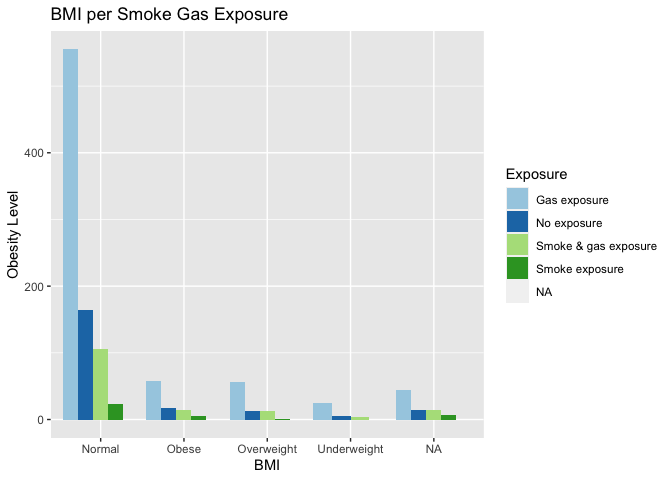
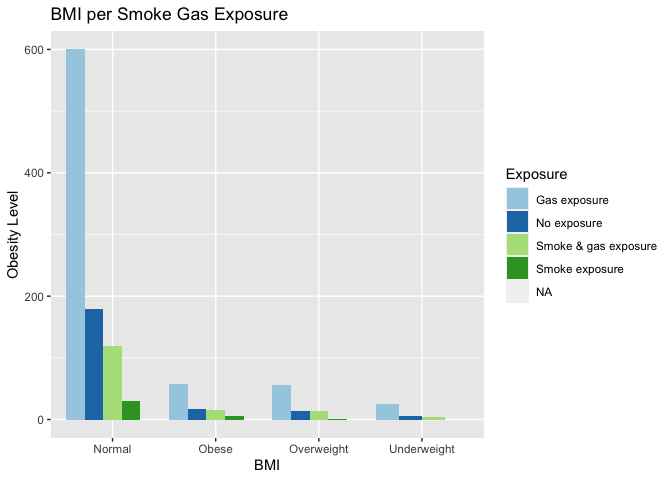
update - fix impute missing data https://github.com/USCbiostats/PM566/issues/60

diff --git a/hw2/pm566-hw2.md b/hw2/pm566-hw2.md
@@ -230,20 +230,21 @@ which(colSums(is.na(chs)) > 0)
     ##            23            43            44
 
 ``` r
-#chs <- data.table(chs)
-#chs[, bmi_imp := fcoalesce(bmi, mean(bmi, na.rm = TRUE)), by = .(male, hispanic)]
-#chs[ , fev_imp := fcoalesce(fev, mean(fev, na.rm = TRUE)), by = .(male, hispanic)]
+chs <- data.table(chs)
+chs[, bmi_imp := fcoalesce(bmi, mean(bmi, na.rm = TRUE)), by = .(male, hispanic)]
+chs[ , fev_imp := fcoalesce(fev, mean(fev, na.rm = TRUE)), by = .(male, hispanic)]
 ```
 
 ## 2. Create a new categorical variable named “obesity_level” using the BMI measurement (underweight BMI\<14; normal BMI 14-22; overweight BMI 22-24; obese BMI\>24).
 
 ``` r
+chs <- as.data.frame(chs)
 chs <-
   chs %>%
-  mutate(obesity_level = case_when(chs$bmi < 14  ~ 'Underweight', 
-                              chs$bmi >= 14 & chs$bmi < 22  ~ 'Normal', 
-                              chs$bmi >= 22 & chs$bmi < 24  ~ 'Overweight', 
-                              chs$bmi >= 24  ~ 'Obese'))
+  mutate(obesity_level = case_when(chs$bmi_imp < 14  ~ 'Underweight', 
+                              chs$bmi_imp >= 14 & chs$bmi_imp < 22  ~ 'Normal', 
+                              chs$bmi_imp >= 22 & chs$bmi_imp < 24  ~ 'Overweight', 
+                              chs$bmi_imp >= 24  ~ 'Obese'))
 ```
 
 ### To make sure the variable is rightly coded, create a summary table that contains the minimum BMI, maximum BMI, and the total number of observations per category.
@@ -261,11 +262,10 @@ knitr::kable()
 
 | obesity_level |  min_bmi |  max_bmi | mean_bmi | n_bmi |
 |:--------------|---------:|---------:|---------:|------:|
-| Normal        | 14.00380 | 21.96387 | 17.28974 |   886 |
+| Normal        |       NA |       NA |       NA |   975 |
 | Obese         | 24.00647 | 41.26613 | 26.97446 |   103 |
 | Overweight    | 22.02353 | 23.99650 | 22.93748 |    87 |
 | Underweight   | 11.29640 | 13.98601 | 13.32074 |    35 |
-| NA            |       NA |       NA |       NA |    89 |
 
 ## 3. Create another categorical variable named “smoke_gas_exposure” that summarizes “Second Hand Smoke” and “Gas Stove.” The variable should have four categories in total
 
@@ -292,32 +292,28 @@ chs %>%
   group_by(townname) %>%
   summarise(
     n    = n(),
-    mean_fev  = mean(fev), 
-    sd_fev  = sd(fev),
-    mean_fev = mean(fev))
-```
-
-    ## # A tibble: 12 × 4
-    ##    townname          n mean_fev sd_fev
-    ##    <chr>         <int>    <dbl>  <dbl>
-    ##  1 Alpine          100       NA     NA
-    ##  2 Atascadero      100       NA     NA
-    ##  3 Lake Elsinore   100       NA     NA
-    ##  4 Lake Gregory    100       NA     NA
-    ##  5 Lancaster       100       NA     NA
-    ##  6 Lompoc          100       NA     NA
-    ##  7 Long Beach      100       NA     NA
-    ##  8 Mira Loma       100       NA     NA
-    ##  9 Riverside       100       NA     NA
-    ## 10 San Dimas       100       NA     NA
-    ## 11 Santa Maria     100       NA     NA
-    ## 12 Upland          100       NA     NA
-
-``` r
+    mean_fev  = mean(fev_imp), 
+    sd_fev  = sd(fev_imp),
+    mean_fev = mean(fev_imp)) %>%
     #prop_asthma = sum(asthma)/n()*100) %>%
   #distinct(townname, .keep_all = T) %>%
-#knitr::kable()
+knitr::kable()
 ```
+
+| townname      |   n | mean_fev |   sd_fev |
+|:--------------|----:|---------:|---------:|
+| Alpine        | 100 | 2087.101 | 291.1768 |
+| Atascadero    | 100 | 2075.897 | 324.0935 |
+| Lake Elsinore | 100 | 2038.849 | 303.6956 |
+| Lake Gregory  | 100 | 2084.700 | 319.9593 |
+| Lancaster     | 100 | 2003.044 | 317.1298 |
+| Lompoc        | 100 | 2034.354 | 351.0454 |
+| Long Beach    | 100 | 1985.861 | 319.4625 |
+| Mira Loma     | 100 | 1985.202 | 324.9634 |
+| Riverside     | 100 | 1989.881 | 277.5065 |
+| San Dimas     | 100 | 2026.794 | 318.7845 |
+| Santa Maria   | 100 | 2025.750 | 312.1725 |
+| Upland        | 100 | 2024.266 | 343.1637 |
 
 # EDA
 
@@ -332,14 +328,14 @@ FEV?** **What is the association between PM2.5 and FEV?**
 dim(chs)
 ```
 
-    ## [1] 1200   51
+    ## [1] 1200   53
 
 ``` r
 #Check the variable types in the data
 str(chs)
 ```
 
-    ## 'data.frame':    1200 obs. of  51 variables:
+    ## 'data.frame':    1200 obs. of  53 variables:
     ##  $ townname          : chr  "Alpine" "Alpine" "Alpine" "Alpine" ...
     ##  $ sid               : int  841 835 838 840 865 867 842 839 844 847 ...
     ##  $ male              : int  1 0 0 0 0 0 1 0 1 1 ...
@@ -389,6 +385,8 @@ str(chs)
     ##  $ total_acids       : num  5.5 5.5 5.5 5.5 5.5 5.5 5.5 5.5 5.5 5.5 ...
     ##  $ lon               : num  -117 -117 -117 -117 -117 ...
     ##  $ lat               : num  32.8 32.8 32.8 32.8 32.8 ...
+    ##  $ bmi_imp           : num  15.8 15.3 15.9 16.6 24.2 ...
+    ##  $ fev_imp           : num  2252 2529 1738 2467 2584 ...
     ##  $ obesity_level     : chr  "Normal" "Normal" "Normal" "Normal" ...
     ##  $ smoke_gas_exposure: chr  "No exposure" "No exposure" NA NA ...
 
